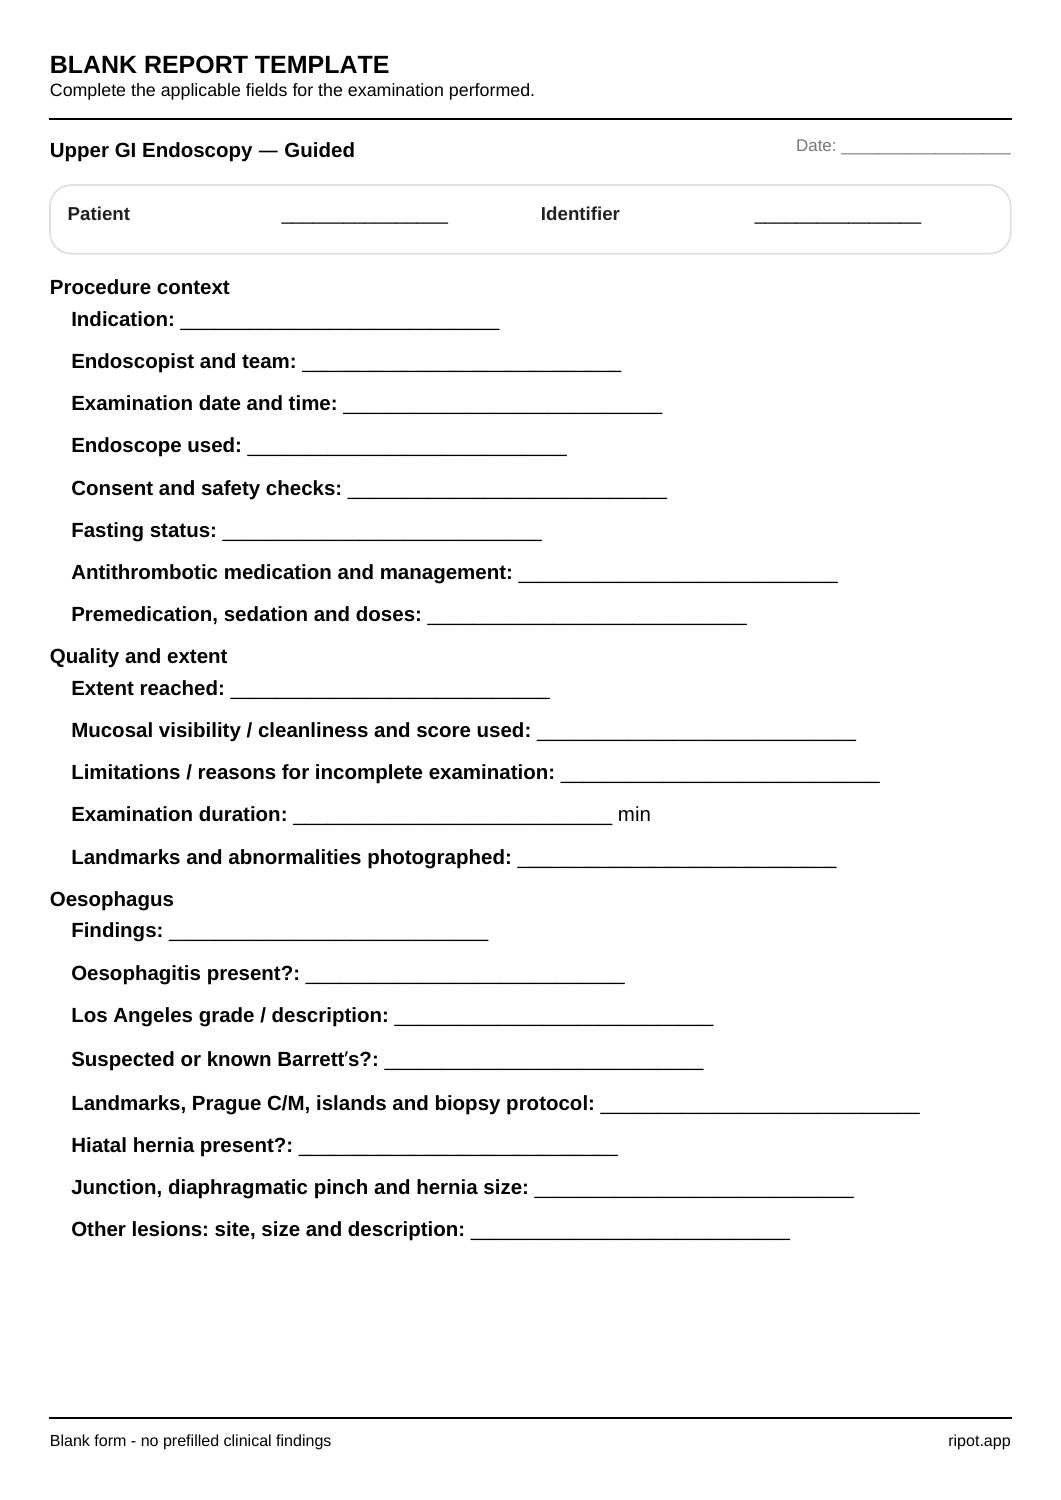
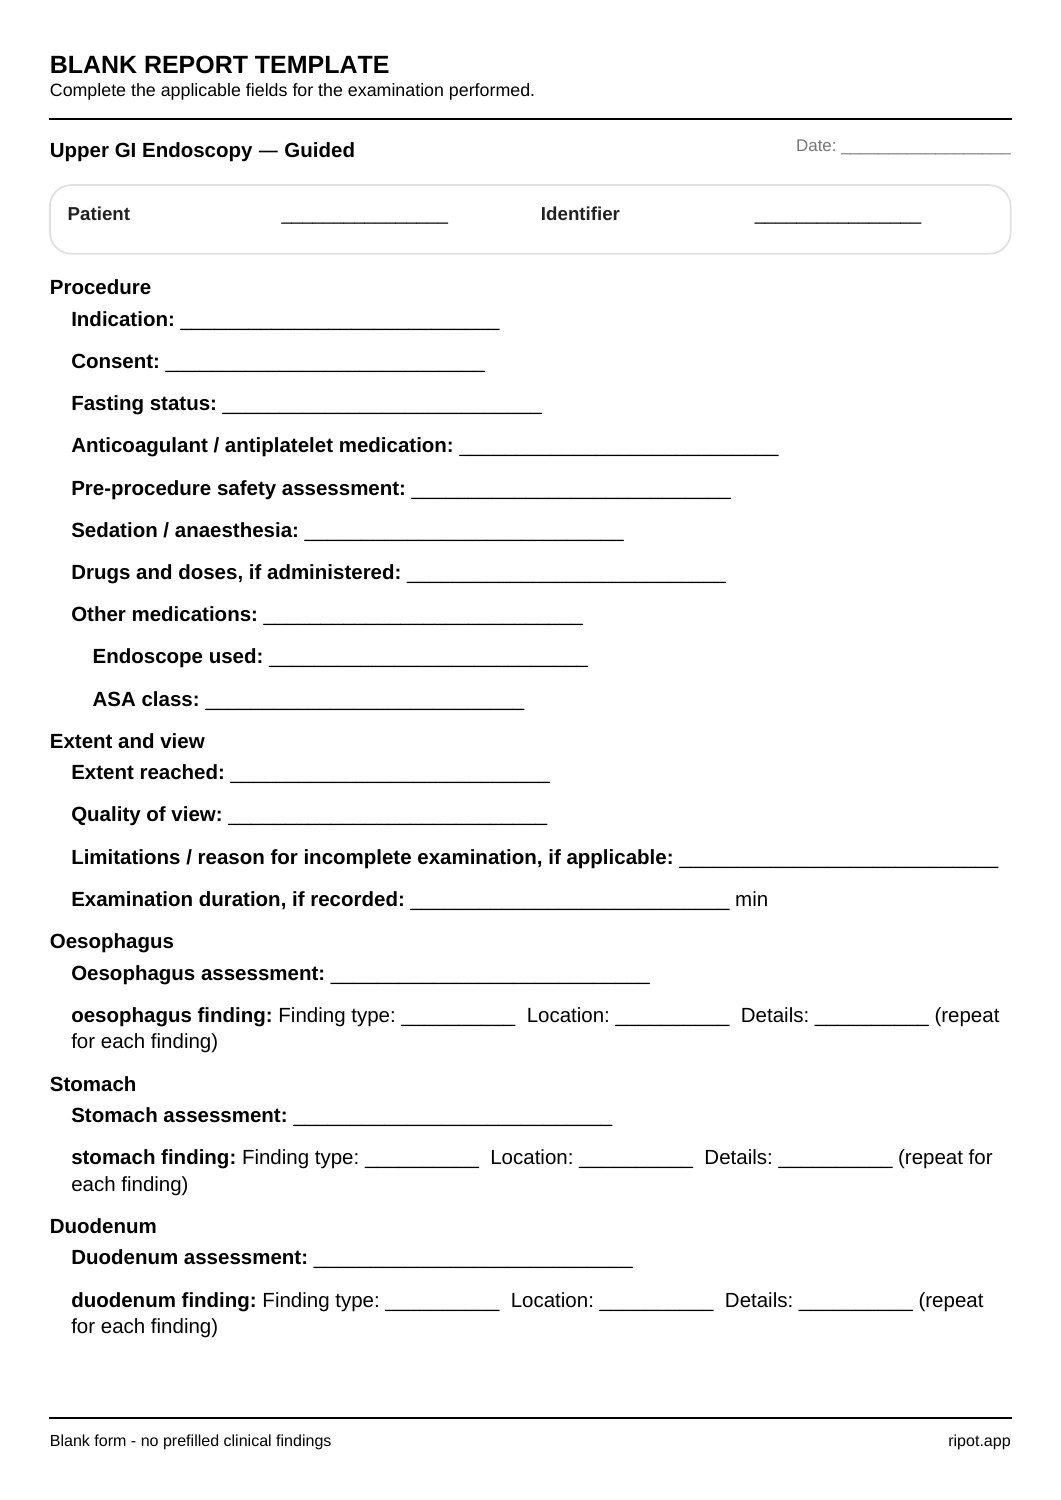
Restore reports after cancelled template links and sync verified OGD previews

diff --git a/landing/y/templates/structured-upper-gi-endoscopy-report-template/index.html b/landing/y/templates/structured-upper-gi-endoscopy-report-template/index.html
@@ -116,4 +116,4 @@ FICTIONAL EXAMPLE - NOT FOR CLINICAL USE
 <section><details><summary>View all included fields</summary><ul class="fields"><li>Procedure</li><li>Indication</li><li>Consent</li><li>Fasting status</li><li>Anticoagulant / antiplatelet medication</li><li>Pre-procedure safety assessment</li><li>Sedation / anaesthesia</li><li>Drugs and doses, if administered</li><li>Other medications</li><li>Additional procedure details?</li><li>Endoscope used</li><li>ASA class</li><li>Extent and view</li><li>Extent reached</li><li>Quality of view</li><li>Limitations / reason for incomplete examination, if applicable</li><li>Examination duration, if recorded</li><li>Oesophagus</li><li>Oesophagus assessment</li><li>oesophagus finding</li><li>Reflux oesophagitis</li><li>Location</li><li>Los Angeles grade</li><li>Additional description, if needed</li><li>Treatment performed?</li><li>Treatment method</li><li>Device / agent, dose and treatment details</li><li>Immediate outcome</li><li>Suspected / known Barrett’s</li><li>Location</li><li>Prague C</li><li>Prague M</li><li>Visible lesion?</li><li>Biopsy protocol</li><li>Additional description, if needed</li><li>Biopsy taken?</li><li>Specimen container / label</li><li>Sampling details, if needed</li><li>Treatment performed?</li><li>Treatment method</li><li>Device / agent, dose and treatment details</li><li>Immediate outcome</li><li>Hiatal hernia</li><li>Location</li><li>Axial length</li><li>Hill grade</li><li>Additional description, if needed</li><li>Treatment performed?</li><li>Treatment method</li><li>Device / agent, dose and treatment details</li><li>Immediate outcome</li><li>EoE features</li><li>Location</li><li>Oedema</li><li>Rings</li><li>Exudates</li><li>Furrows</li><li>Stricture</li><li>Additional description, if needed</li><li>Biopsy taken?</li><li>Specimen container / label</li><li>Sampling details, if needed</li><li>Treatment performed?</li><li>Treatment method</li><li>Device / agent, dose and treatment details</li><li>Immediate outcome</li><li>Oesophageal varices</li><li>Location</li><li>Size</li><li>Red signs</li><li>Bleeding</li><li>Additional description, if needed</li><li>Treatment performed?</li><li>Treatment method</li><li>Device / agent, dose and treatment details</li><li>Immediate outcome</li><li>Ring / web / stricture</li><li>Location</li><li>Type</li><li>Length</li><li>Minimum diameter</li><li>Additional description, if needed</li><li>Biopsy taken?</li><li>Specimen container / label</li><li>Sampling details, if needed</li><li>Treatment performed?</li><li>Treatment method</li><li>Device / agent, dose and treatment details</li><li>Immediate outcome</li><li>Suspected candidiasis</li><li>Location</li><li>Additional description, if needed</li><li>Biopsy taken?</li><li>Specimen container / label</li><li>Sampling details, if needed</li><li>Treatment performed?</li><li>Treatment method</li><li>Device / agent, dose and treatment details</li><li>Immediate outcome</li><li>Ulcer</li><li>Location</li><li>Size</li><li>Number at this location</li><li>Bleeding stigmata / Forrest category</li><li>Additional description, if needed</li><li>Biopsy taken?</li><li>Specimen container / label</li><li>Sampling details, if needed</li><li>Treatment performed?</li><li>Treatment method</li><li>Device / agent, dose and treatment details</li><li>Immediate outcome</li><li>Mass / lesion</li><li>Location</li><li>Size</li><li>Morphology</li><li>Additional description, if needed</li><li>Biopsy taken?</li><li>Specimen container / label</li><li>Sampling details, if needed</li><li>Treatment performed?</li><li>Treatment method</li><li>Device / agent, dose and treatment details</li><li>Immediate outcome</li><li>Other finding</li><li>Location</li><li>Additional description, if needed</li><li>Biopsy taken?</li><li>Specimen container / label</li><li>Sampling details, if needed</li><li>Treatment performed?</li><li>Treatment method</li><li>Device / agent, dose and treatment details</li><li>Immediate outcome</li><li>Stomach</li><li>Stomach assessment</li><li>stomach finding</li><li>Ulcer</li><li>Location</li><li>Surface / curvature, if relevant</li><li>Size</li><li>Number at this location</li><li>Bleeding stigmata / Forrest category</li><li>Additional description, if needed</li><li>Biopsy taken?</li><li>Specimen container / label</li><li>Sampling details, if needed</li><li>Treatment performed?</li><li>Treatment method</li><li>Device / agent, dose and treatment details</li><li>Immediate outcome</li><li>Gastritis / erythema</li><li>Location</li><li>Surface / curvature, if relevant</li><li>Additional description, if needed</li><li>Biopsy taken?</li><li>Specimen container / label</li><li>Sampling details, if needed</li><li>Treatment performed?</li><li>Treatment method</li><li>Device / agent, dose and treatment details</li><li>Immediate outcome</li><li>Erosions</li><li>Location</li><li>Surface / curvature, if relevant</li><li>Additional description, if needed</li><li>Biopsy taken?</li><li>Specimen container / label</li><li>Sampling details, if needed</li><li>Treatment performed?</li><li>Treatment method</li><li>Device / agent, dose and treatment details</li><li>Immediate outcome</li><li>Polyp</li><li>Location</li><li>Surface / curvature, if relevant</li><li>Size</li><li>Morphology</li><li>Additional description, if needed</li><li>Biopsy taken?</li><li>Specimen container / label</li><li>Sampling details, if needed</li><li>Treatment performed?</li><li>Treatment method</li><li>Device / agent, dose and treatment details</li><li>Immediate outcome</li><li>Mass / lesion</li><li>Location</li><li>Surface / curvature, if relevant</li><li>Size</li><li>Morphology</li><li>Additional description, if needed</li><li>Biopsy taken?</li><li>Specimen container / label</li><li>Sampling details, if needed</li><li>Treatment performed?</li><li>Treatment method</li><li>Device / agent, dose and treatment details</li><li>Immediate outcome</li><li>Suspected atrophy / intestinal metaplasia</li><li>Location</li><li>Surface / curvature, if relevant</li><li>Appearance</li><li>Additional description, if needed</li><li>Biopsy taken?</li><li>Specimen container / label</li><li>Sampling details, if needed</li><li>Treatment performed?</li><li>Treatment method</li><li>Device / agent, dose and treatment details</li><li>Immediate outcome</li><li>Gastric varices</li><li>Location</li><li>Surface / curvature, if relevant</li><li>Sarin type</li><li>Bleeding</li><li>Additional description, if needed</li><li>Treatment performed?</li><li>Treatment method</li><li>Device / agent, dose and treatment details</li><li>Immediate outcome</li><li>Portal hypertensive gastropathy</li><li>Location</li><li>Surface / curvature, if relevant</li><li>Severity</li><li>Additional description, if needed</li><li>Treatment performed?</li><li>Treatment method</li><li>Device / agent, dose and treatment details</li><li>Immediate outcome</li><li>GAVE</li><li>Location</li><li>Surface / curvature, if relevant</li><li>Additional description, if needed</li><li>Treatment performed?</li><li>Treatment method</li><li>Device / agent, dose and treatment details</li><li>Immediate outcome</li><li>Retained food / fluid</li><li>Location</li><li>Surface / curvature, if relevant</li><li>Additional description, if needed</li><li>Treatment performed?</li><li>Treatment method</li><li>Device / agent, dose and treatment details</li><li>Immediate outcome</li><li>Post-surgical anatomy</li><li>Location</li><li>Surface / curvature, if relevant</li><li>Additional description, if needed</li><li>Treatment performed?</li><li>Treatment method</li><li>Device / agent, dose and treatment details</li><li>Immediate outcome</li><li>Other finding</li><li>Location</li><li>Surface / curvature, if relevant</li><li>Additional description, if needed</li><li>Biopsy taken?</li><li>Specimen container / label</li><li>Sampling details, if needed</li><li>Treatment performed?</li><li>Treatment method</li><li>Device / agent, dose and treatment details</li><li>Immediate outcome</li><li>Duodenum</li><li>Duodenum assessment</li><li>duodenum finding</li><li>Ulcer</li><li>Location</li><li>Size</li><li>Number at this location</li><li>Bleeding stigmata / Forrest category</li><li>Additional description, if needed</li><li>Biopsy taken?</li><li>Specimen container / label</li><li>Sampling details, if needed</li><li>Treatment performed?</li><li>Treatment method</li><li>Device / agent, dose and treatment details</li><li>Immediate outcome</li><li>Erosions / duodenitis</li><li>Location</li><li>Additional description, if needed</li><li>Biopsy taken?</li><li>Specimen container / label</li><li>Sampling details, if needed</li><li>Treatment performed?</li><li>Treatment method</li><li>Device / agent, dose and treatment details</li><li>Immediate outcome</li><li>Suspected villous atrophy</li><li>Location</li><li>Appearance</li><li>Additional description, if needed</li><li>Biopsy taken?</li><li>Specimen container / label</li><li>Sampling details, if needed</li><li>Treatment performed?</li><li>Treatment method</li><li>Device / agent, dose and treatment details</li><li>Immediate outcome</li><li>Polyp</li><li>Location</li><li>Size</li><li>Morphology</li><li>Additional description, if needed</li><li>Biopsy taken?</li><li>Specimen container / label</li><li>Sampling details, if needed</li><li>Treatment performed?</li><li>Treatment method</li><li>Device / agent, dose and treatment details</li><li>Immediate outcome</li><li>Mass / ampullary lesion</li><li>Location</li><li>Size</li><li>Morphology</li><li>Additional description, if needed</li><li>Biopsy taken?</li><li>Specimen container / label</li><li>Sampling details, if needed</li><li>Treatment performed?</li><li>Treatment method</li><li>Device / agent, dose and treatment details</li><li>Immediate outcome</li><li>Stenosis</li><li>Location</li><li>Size</li><li>Additional description, if needed</li><li>Biopsy taken?</li><li>Specimen container / label</li><li>Sampling details, if needed</li><li>Treatment performed?</li><li>Treatment method</li><li>Device / agent, dose and treatment details</li><li>Immediate outcome</li><li>Diverticulum</li><li>Location</li><li>Additional description, if needed</li><li>Treatment performed?</li><li>Treatment method</li><li>Device / agent, dose and treatment details</li><li>Immediate outcome</li><li>Other finding</li><li>Location</li><li>Additional description, if needed</li><li>Biopsy taken?</li><li>Specimen container / label</li><li>Sampling details, if needed</li><li>Treatment performed?</li><li>Treatment method</li><li>Device / agent, dose and treatment details</li><li>Immediate outcome</li><li>Sampling</li><li>Samples taken?</li><li>specimen</li><li>Specimen</li><li>Container / label</li><li>Region</li><li>Precise site / linked finding</li><li>Number of samples</li><li>Sampling protocol</li><li>Conclusion and follow-up</li><li>Immediate adverse events</li><li>Tolerance</li><li>Conclusion / impression</li><li>Plan and pathology follow-up</li></ul></details></section>
 <section class="outline-box"><h2>Using this reporting structure</h2><h3>Routine reporting first</h3><p>Enter patient or hospital identification in Subject info and use the existing report date and signing details. Assess each region explicitly: Normal, Abnormal, Not examined or Cannot assess. No normal findings are preselected. An abnormal assessment reveals follow-up prompts; unused details are omitted from the completed example.</p><h3>Detail only where it helps</h3><p>Additional procedure details are optional. Record the extent reached, quality of view and any limitations. Describe each lesion separately with its anatomical location, size where relevant and appearance. Choose Add finding, select its type and complete the relevant options. Add another entry when the location or description differs. Findings remain separate and are grouped by location in the PDF. This template requires Ripot 1.0.20 or later.</p><h3>Sampling, treatment and images</h3><p>Selecting sampling or treatment reveals its details. Identify specimens by site and container, link treatment to its finding and document the outcome. Use Ripot’s existing image attachments rather than a duplicate photograph checklist. Review the conclusion and follow-up before signing.</p><h3>Research and Registry stay separate</h3><p>This template does not enable Registry fields or require research data. Configure those features separately for your project. Formal visibility scales and quality-audit checklists are not included in this routine form. The ESGE guidance informed the structure; this simplified template does not claim to capture every reporting standard or to be independently clinically validated.</p><p class="note">Documentation help, not clinical guidance. Use current specialty guidance and local protocols. Review every report before signing or sharing.</p></section><section><h2>Explore other templates</h2><div class="cards"><article class="card"><span class="eyebrow">Gastroenterology</span><h2><a href="/templates/colonoscopy-report-template/">Colonoscopy report template</a></h2><p>Record bowel preparation, segmental findings, interventions and impressions in a reusable colonoscopy report.</p><p class="note">Contributor: Ripot · Starter template</p><a href="/templates/colonoscopy-report-template/">Preview and use →</a></article><article class="card"><span class="eyebrow">Gastroenterology</span><h2><a href="/templates/upper-gi-endoscopy-report-template/">Upper GI endoscopy report template</a></h2><p>An OGD / EGD reporting structure covering indication, sedation, anatomical findings, interventions and impression.</p><p class="note">Contributor: Ripot · Starter template</p><a href="/templates/upper-gi-endoscopy-report-template/">Preview and use →</a></article><article class="card"><span class="eyebrow">Gastroenterology</span><h2><a href="/templates/flexible-sigmoidoscopy-report-template/">Flexible sigmoidoscopy report template</a></h2><p>Document the examined lower bowel, preparation, extent, lesions, sampling and follow-up in an editable flexible sigmoidoscopy report.</p><p class="note">Contributor: Ripot · Starter template</p><a href="/templates/flexible-sigmoidoscopy-report-template/">Preview and use →</a></article><article class="card"><span class="eyebrow">Radiology</span><h2><a href="/templates/abdominal-ultrasound-report-template/">Abdominal ultrasound report template</a></h2><p>A reusable abdominopelvic ultrasound structure for organ findings, measurements and impression.</p><p class="note">Contributor: Ripot · Starter template</p><a href="/templates/abdominal-ultrasound-report-template/">Preview and use →</a></article></div></section>
 <dialog class="zoom-dialog" id="report-zoom" aria-label="Enlarged report preview"><div class="zoom-toolbar"><strong data-zoom-title>Report preview</strong><button class="secondary" type="button" data-zoom-toggle>Zoom in</button><button type="button" data-close>Close preview</button></div><div class="zoom-body"><img alt="Enlarged report preview"></div><p class="zoom-help">Zoom in to read the text. On a phone, drag to move around the enlarged page.</p></dialog>
[2 lines of base64/hex data omitted]

diff --git a/lib/features/reports/ui/report_editor_screen.dart b/lib/features/reports/ui/report_editor_screen.dart
@@ -1775,8 +1775,6 @@ class _ReportEditorScreenState extends State<ReportEditorScreen>
                 decoration: const InputDecoration(
                   border: OutlineInputBorder(),
                   hintText: 'Optional note…',
-                  helperText:
-                      'Narrative detail for the report; not saved as structured data.',
                   isDense: true,
                 ),
                 onChanged: (v) => vm.updateSectionNote(s.id, v),
@@ -1824,8 +1822,6 @@ class _ReportEditorScreenState extends State<ReportEditorScreen>
                 decoration: const InputDecoration(
                   border: OutlineInputBorder(),
                   hintText: 'Optional note…',
-                  helperText:
-                      'Narrative detail for the report; not saved as structured data.',
                   isDense: true,
                 ),
                 onChanged: (v) => vm.updateSectionNote(s.id, v),

diff --git a/lib/features/reports/ui/reports_list_screen.dart b/lib/features/reports/ui/reports_list_screen.dart
@@ -195,7 +195,11 @@ class _ReportsListScreenState extends State<ReportsListScreen> with RouteAware {
                 FilledButton(onPressed: () => Navigator.pop(dialog, true), child: const Text('Open latest version'))],
             ));
             if (!mounted) return;
-            if (useLatest != true) return;
+            if (useLatest != true) {
+              setState(() => _openingTemplate = false);
+              await _refreshReports();
+              return;
+            }
             template = latest;
             templateNotice = 'Opened the latest approved template version. Your saved reports and templates are unchanged.';
           }
@@ -218,6 +222,7 @@ class _ReportsListScreenState extends State<ReportsListScreen> with RouteAware {
               ),
             ),
           );
+          await _refreshReports();
         }
       }
     });
